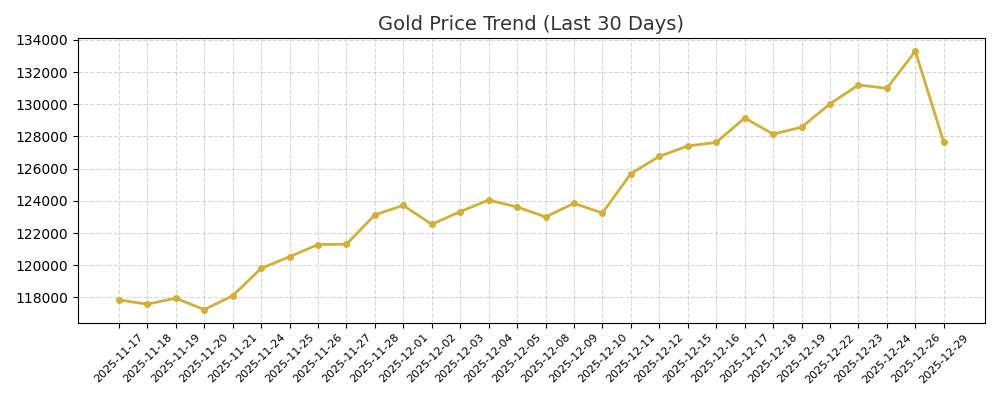
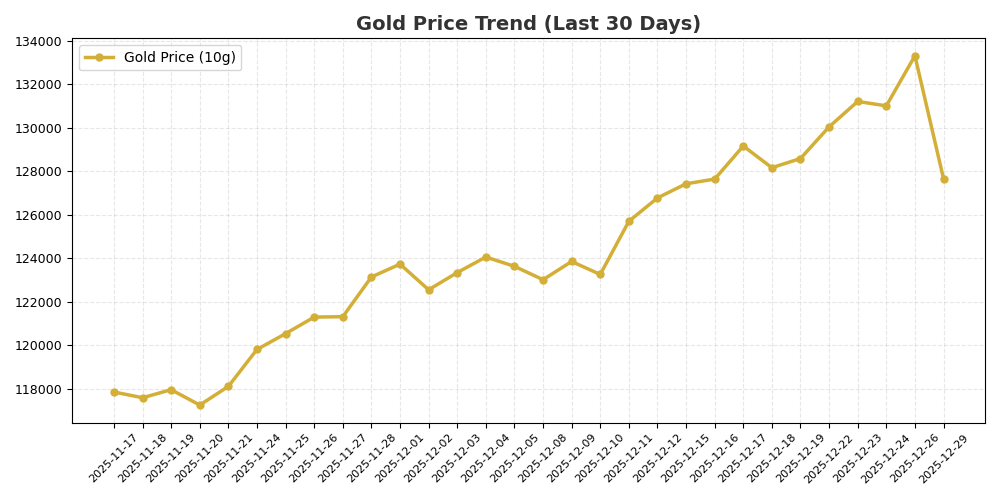
dashboard 06

diff --git a/src/dashboard.py b/src/dashboard.py
@@ -22,24 +22,34 @@ def get_arrow(value):
     return "➖"
 
 def generate_plot(history):
-    dates = history['dates']
-    prices = history['prices']
+    dates = history.get('dates', [])
+    prices = history.get('prices', [])
     
-    plt.figure(figsize=(10, 4))
-    plt.plot(dates, prices, marker='o', linestyle='-', color='#d4af37', linewidth=2, markersize=4)
-    plt.title(f"Gold Price Trend (Last {len(dates)} Days)", fontsize=14, color='#333333')
-    plt.grid(True, linestyle='--', alpha=0.5)
-    plt.xticks(rotation=45, fontsize=8)
-    plt.tight_layout()
-    
-    img_path = "assets/trend_chart.png"
+    if not dates or not prices: return
+
+    # Create Asset Folder
     if not os.path.exists("assets"):
         os.makedirs("assets")
-    plt.savefig(img_path)
+        
+    plt.figure(figsize=(10, 5))
+    # Plot Line
+    plt.plot(dates, prices, marker='o', linestyle='-', color='#d4af37', linewidth=2.5, markersize=5, label='Gold Price (10g)')
+    
+    # Add Title & Grid
+    plt.title(f"Gold Price Trend (Last {len(dates)} Days)", fontsize=14, fontweight='bold', color='#333333')
+    plt.grid(True, linestyle='--', alpha=0.3)
+    plt.xticks(rotation=45, fontsize=8)
+    plt.yticks(fontsize=9)
+    plt.legend()
+    plt.tight_layout()
+    
+    # Save
+    img_path = "assets/trend_chart.png"
+    plt.savefig(img_path, dpi=100)
     plt.close()
 
 def generate_readme():
-    print("--- 📝 Generating Futuristic Dashboard (1g & 10g Support) ---")
+    print("--- 📝 Generating Hybrid Dashboard (Visuals + Intelligence) ---")
     
     data = load_json(DATA_FILE)
     mood = load_json(MOOD_FILE)
@@ -95,12 +105,31 @@ def generate_readme():
 
 ---
 
-### 🧠 The Oracle's Report
-*Based on {len(data.get('history', {}).get('prices', []))} days of data, Currency strength, and Global News.*
+### 📊 Market Trend Analysis
+*Visualizing the price action over the last 30 days.*
 
+![Gold Trend Chart](assets/trend_chart.png)
+
+---
+
+### ⏳ The Time Machine: Accuracy & Trend
+*Comparing the Past, Present, and Future.*
+
+| Timeline | Price (10g) | Change (₹) | Insight |
+| :--- | :--- | :--- | :--- |
+| **Yesterday** (Actual) | {fmt_price(price_yest_10g)} | - | Historical Anchor |
+| **Today** (Live) | **{fmt_price(price_today_10g)}** | {get_arrow(delta_10g)} {fmt_price(abs(delta_10g))} | **Actual Market Rate** |
+| **Tomorrow** (AI Forecast) | `{fmt_price(forecast_10g)}` | {get_arrow(delta_forecast)} {fmt_price(abs(delta_forecast))} | *{volatility}* |
+
+> **🎯 AI Accuracy Tracker:** > Yesterday's prediction error was **{accuracy_display}**.  
+> *The model learns from this error to improve future forecasts.*
+
+---
+
+### 🧠 The Oracle's Report
 * **Prediction:** The model expects prices to move **{get_arrow(delta_forecast)} {fmt_price(abs(delta_forecast))}** tomorrow.
 * **Confidence Check:** Market volatility is **{volatility}**. RSI is at **{rsi}**.
-* **Accuracy Tracker:** Yesterday's prediction error was **{accuracy_display}**.
+* **Key Drivers:** Predictions are now weighted by **USD/INR Exchange Rates** and **Global News Sentiment**.
 
 ---
 
@@ -120,7 +149,7 @@ def generate_readme():
     with open(README_FILE, 'w', encoding='utf-8') as f:
         f.write(md)
     
-    print("✅ Dashboard Updated with 1g & 10g Metrics.")
+    print("✅ Hybrid Dashboard Generated (Charts + Analytics Restored).")
 
 if __name__ == "__main__":
     generate_readme()

diff --git a/README.md b/README.md
@@ -15,12 +15,31 @@
 
 ---
 
-### 🧠 The Oracle's Report
-*Based on 30 days of data, Currency strength, and Global News.*
+### 📊 Market Trend Analysis
+*Visualizing the price action over the last 30 days.*
 
+![Gold Trend Chart](assets/trend_chart.png)
+
+---
+
+### ⏳ The Time Machine: Accuracy & Trend
+*Comparing the Past, Present, and Future.*
+
+| Timeline | Price (10g) | Change (₹) | Insight |
+| :--- | :--- | :--- | :--- |
+| **Yesterday** (Actual) | ₹133,297 | - | Historical Anchor |
+| **Today** (Live) | **₹127,649** | 🔻 ₹5,648 | **Actual Market Rate** |
+| **Tomorrow** (AI Forecast) | `₹129,706` | 🔺 ₹2,057 | *Stable 🌊* |
+
+> **🎯 AI Accuracy Tracker:** > Yesterday's prediction error was **N/A (Calibrating)**.  
+> *The model learns from this error to improve future forecasts.*
+
+---
+
+### 🧠 The Oracle's Report
 * **Prediction:** The model expects prices to move **🔺 ₹2,057** tomorrow.
 * **Confidence Check:** Market volatility is **Stable 🌊**. RSI is at **61.89**.
-* **Accuracy Tracker:** Yesterday's prediction error was **N/A (Calibrating)**.
+* **Key Drivers:** Predictions are now weighted by **USD/INR Exchange Rates** and **Global News Sentiment**.
 
 ---
 
@@ -29,4 +48,4 @@
 * **Key Headlines:**
 
 ---
-*Last Updated: 2025-12-29 23:57:17 IST*
+*Last Updated: 2025-12-30 00:14:48 IST*
